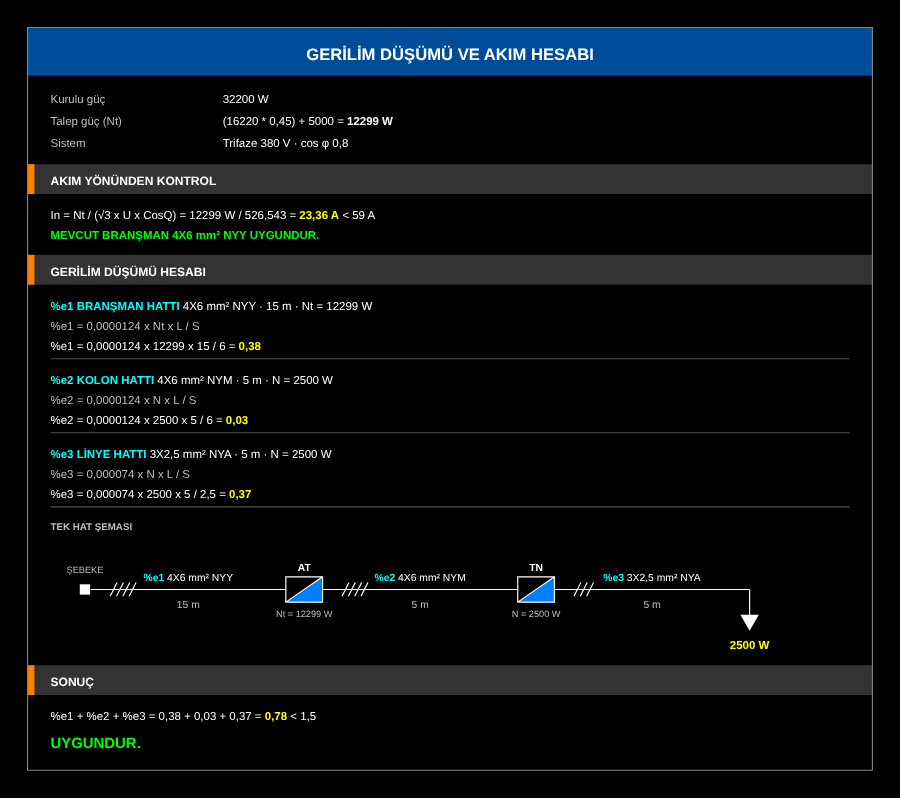
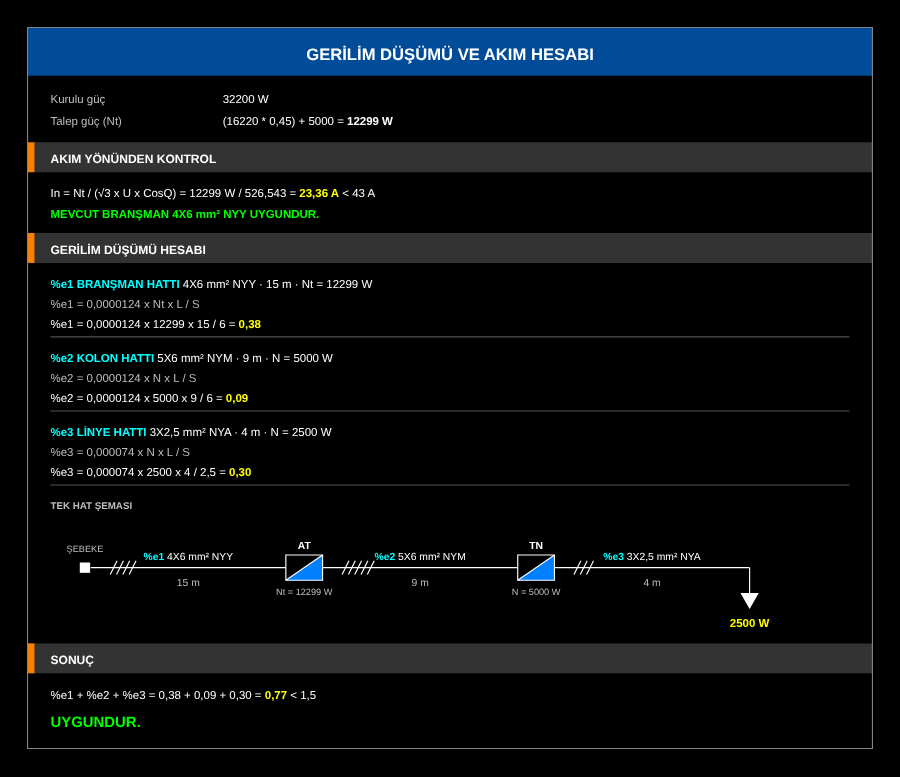
GERILIMDUSUMU: gruplu ve adlı sorular, döşeme ve açıklama soruları kalktı
Branşman taşıma akımı havai değerden; Sistem satırı çizimden çıktı; varsayılan
sayılar nokta ile gösteriliyor. Web aracında da branşman döşeme seçimi kalktı.

Claude-Session: https://claude.ai/code/session_01EkCmJ9wXX1yVVr3vARr63G

Changed region(s): [[0.0311, 0.0309, 0.9956, 0.9884]]

diff --git a/araclar/ic-tesisat.html b/araclar/ic-tesisat.html
@@ -69,10 +69,10 @@
     <div class="izgara2">
       <label>Kablo tipi<select id="b-tip"></select></label>
       <label>Kablo<select id="b-satir"></select></label>
-      <label>Döşeme<select id="b-doseme"></select></label>
+      <label hidden>Döşeme<select id="b-doseme"></select></label>
       <label>Uzunluk (m)<input id="b-L" type="number" inputmode="decimal" value="15" min="0" step="any"></label>
     </div>
-    <p class="not">Gerilim düşümünde talep güç (Nt) kullanılır. Faz, seçilen kabloya göre kendiliğinden ayarlanır: 2x ve 3x → monofaze, 4x, 5x ve 3x25/16 gibi → trifaze. Gerekirse üstten değiştirin.</p>
+    <p class="not">Taşıma akımı katalogdaki havai değerden alınır. Gerilim düşümünde talep güç (Nt) kullanılır. Faz, seçilen kabloya göre kendiliğinden ayarlanır: 2x ve 3x → monofaze, 4x, 5x ve 3x25/16 gibi → trifaze. Gerekirse üstten değiştirin.</p>
   </div>
 
   <div class="kart">
@@ -211,7 +211,8 @@ function bransmanSecenekleri() {
   const s = KABLOLAR[tip].sutunlar;
   const eski = $('b-doseme').value;
   $('b-doseme').innerHTML = s.map((x, i) => `<option value="${i}">${DOSEME_ADI[x]}</option>`).join('');
-  $('b-doseme').value = eski && s[+eski] ? eski : String(Math.max(0, s.indexOf('hava')));
+  // Branşman taşıma akımı katalogdaki havai değerden alınır
+  $('b-doseme').value = String(Math.max(0, s.indexOf('hava')));
 }
 tipSecenekleri($('b-tip'), 'NYY');
 bransmanSecenekleri();

diff --git a/autocad/test/calistir.js b/autocad/test/calistir.js
@@ -9,21 +9,21 @@ L.yukle(fs.readFileSync(path.join(__dirname, '..', 'GERILIMDUSUMU.lsp'), 'utf8')
 const senaryolar = {
   'Branşman mevcut (proje örneği 1)': [
     'Evet', '32200', '(16220x0,45)+5000=',
-    'NYY', '4x6', 'Havai', '15', '',          // branşman: tip, kesit, döşeme, uzunluk, faz (Enter)
+    'NYY', '4x6', '15', '',                  // branşman: tip, kesit, uzunluk, faz (Enter)
     '2',                                     // iç hat sayısı
-    'Trifaze', 'NYM', '5x6', '9', '5000', '',
-    'Monofaze', 'NYA', '2.5', '4', '2500', 'TN3 Panosu ... NOLU Nolu Linye İçin',
+    'Trifaze', 'NYM', '5x6', '9', '5000',
+    'Monofaze', 'NYA', '2.5', '4', '2500',
     '2.5', '0,0'
   ],
   'Monofaze branşman 2x6': [
-    'Evet', '', '8000', 'NYY', '2x6', '', '15', '', '2',
-    '', '', '', '', '', '', '', '', '', '', '', '', '', '0,0'
+    'Evet', '', '8000', 'NYY', '2x6', '15', '', '2',
+    '', '', '', '', '', '', '', '', '', '', '', '0,0'
   ],
   'Branşman yok (proje örneği 2)': [
     'Hayir', '36140', '13136+4380', '',      // kurulu, talep, bağlantı faz (Enter)
     '2',
-    'Trifaze', 'NYM', '4x10', '4', '13136', '',
-    'Monofaze', 'NYA', '2.5', '6', '2500', '.',
+    'Trifaze', 'NYM', '4x10', '4', '13136',
+    'Monofaze', 'NYA', '2.5', '6', '2500',
     '', '0,0'
   ],
 };

diff --git a/autocad/test/onizleme.js b/autocad/test/onizleme.js
@@ -79,10 +79,10 @@ async function main() {
   const klasor = process.argv[2] || '.';
   L.yukle(fs.readFileSync(path.join(__dirname, '..', 'GERILIMDUSUMU.lsp'), 'utf8'));
   const senaryolar = {
-    mevcut: ['Evet', '32200', '(16220*0,45)+5000', 'NYY', '4x6', 'Yeralti', '15', '', '2',
-      'Trifaze', 'NYM', '4x6', '5', '2500', '', 'Monofaze', 'NYA', '2.5', '5', '2500', '', '2.5', '0,0'],
+    mevcut: ['Evet', '32200', '(16220*0,45)+5000', 'NYY', '4x6', '15', '', '2',
+      'Trifaze', 'NYM', '5x6', '9', '5000', 'Monofaze', 'NYA', '2.5', '4', '2500', '2.5', '0,0'],
     yok: ['Hayir', '36140', '13136+4380', '', '2',
-      'Trifaze', 'NYM', '4x10', '4', '13136', '', 'Monofaze', 'NYA', '2.5', '6', '2500', '.', '2.5', '0,0'],
+      'Trifaze', 'NYM', '4x10', '4', '13136', 'Monofaze', 'NYA', '2.5', '6', '2500', '2.5', '0,0'],
   };
   const { chromium } = require('playwright');
   const b = await chromium.launch();

diff --git a/autocad/KURULUM.md b/autocad/KURULUM.md
@@ -25,11 +25,14 @@ Komut satırına **`GERILIMDUSUMU`** yazın. Sırayla şunlar sorulur. Köşeli 
 1. Branşman mevcut mu? `Evet / Hayir`
 2. Kurulu güç (W). Yazılmayacaksa `.` girin.
 3. Talep güç (W). Sayı veya işlem yazabilirsiniz, örnek `(16220*0,45)+5000`.
-4. Branşman mevcutsa: kablo tipi, kesit (örnek `4x6`), döşeme (`Yeralti / Havai`), uzunluk, faz.
+4. Branşman mevcutsa: kablo tipi, kesit (örnek `4x6`), uzunluk, faz. Taşıma akımı katalogdaki havai değerden alınır.
    Faz kablodan tahmin edilir (2x, 3x → monofaze; 4x, 5x, 3x25/16 → trifaze), Enter ile kabul edin.
    Branşman yoksa bağlantının fazı sorulur.
 5. İç hat sayısı (genelde 2: kolon hattı + linye hattı)
-6. Her hat için: faz, kablo tipi, kesit, uzunluk, güç, açıklama
+6. Her hat için (kolon hattı, linye hattı): faz, kablo tipi, kesit, uzunluk, güç
+
+Sorular gruplar halinde gelir; her grubun başında `──── KOLON HATTI (%e2) ────` gibi bir başlık yazar.
+Sayıları nokta ile yazın (örnek `2.5`); AutoCAD sayı girişinde virgül kabul etmez.
 
 Hesapta %e1 branşman hattı, %e2 kolon hattı, %e3 linye hattıdır.
 7. Yazı yüksekliği
